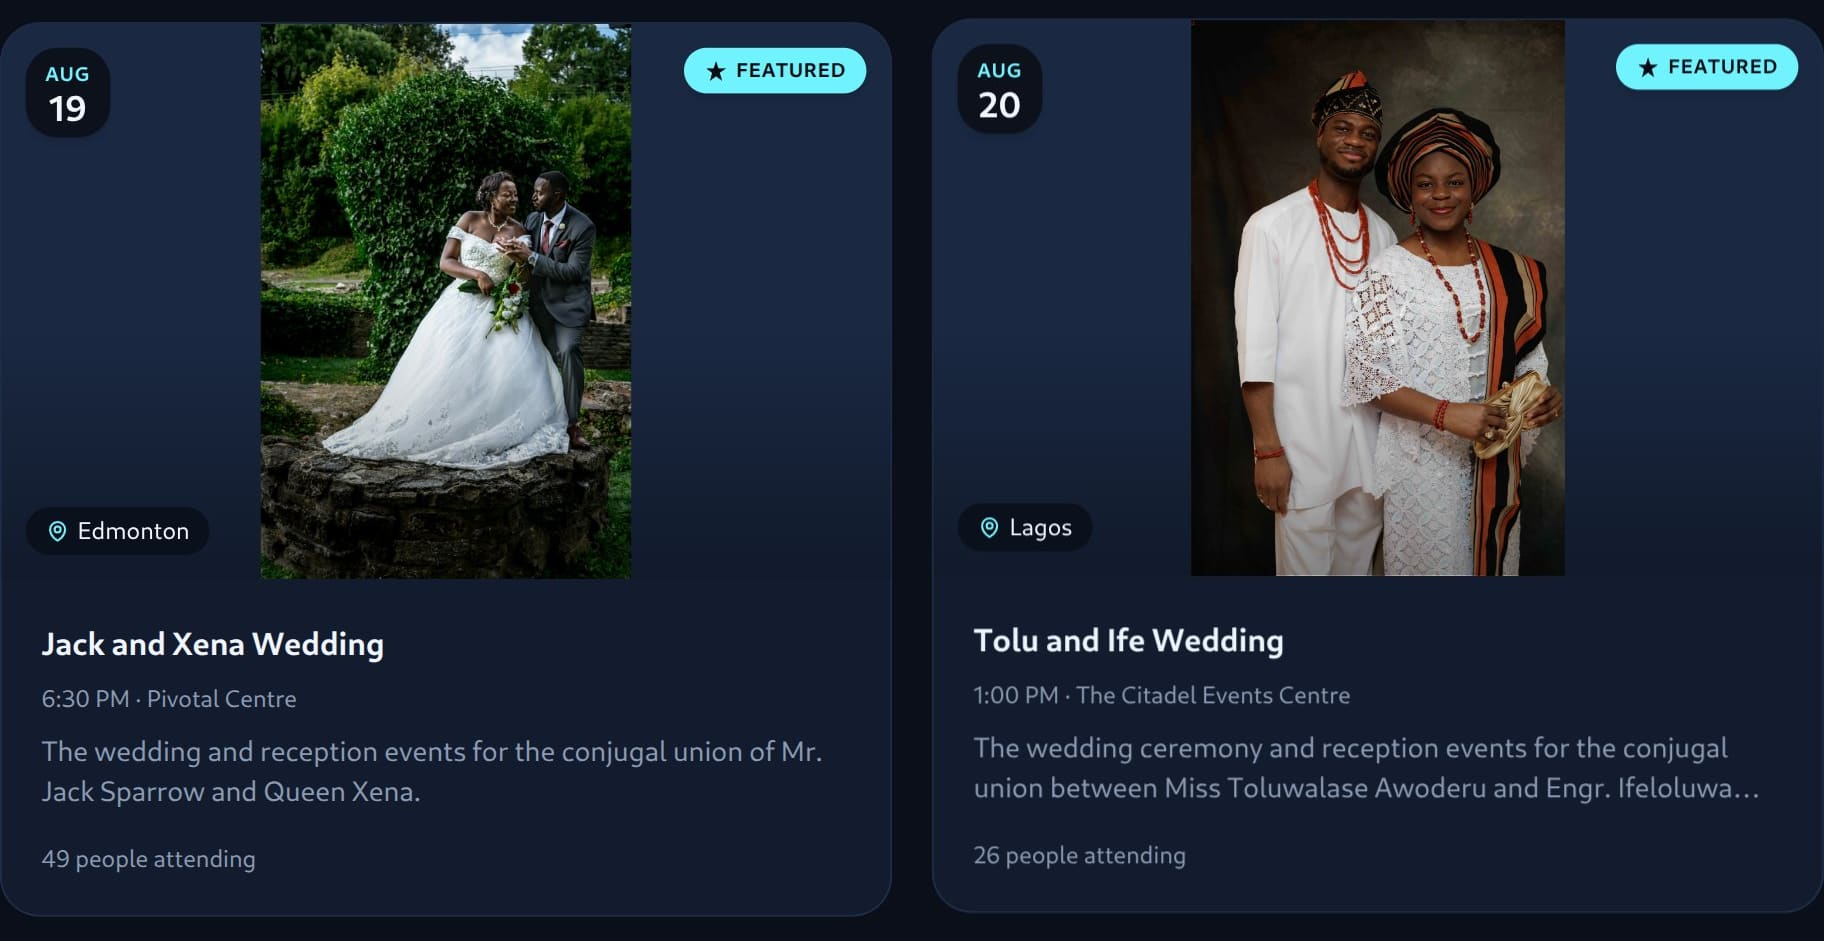
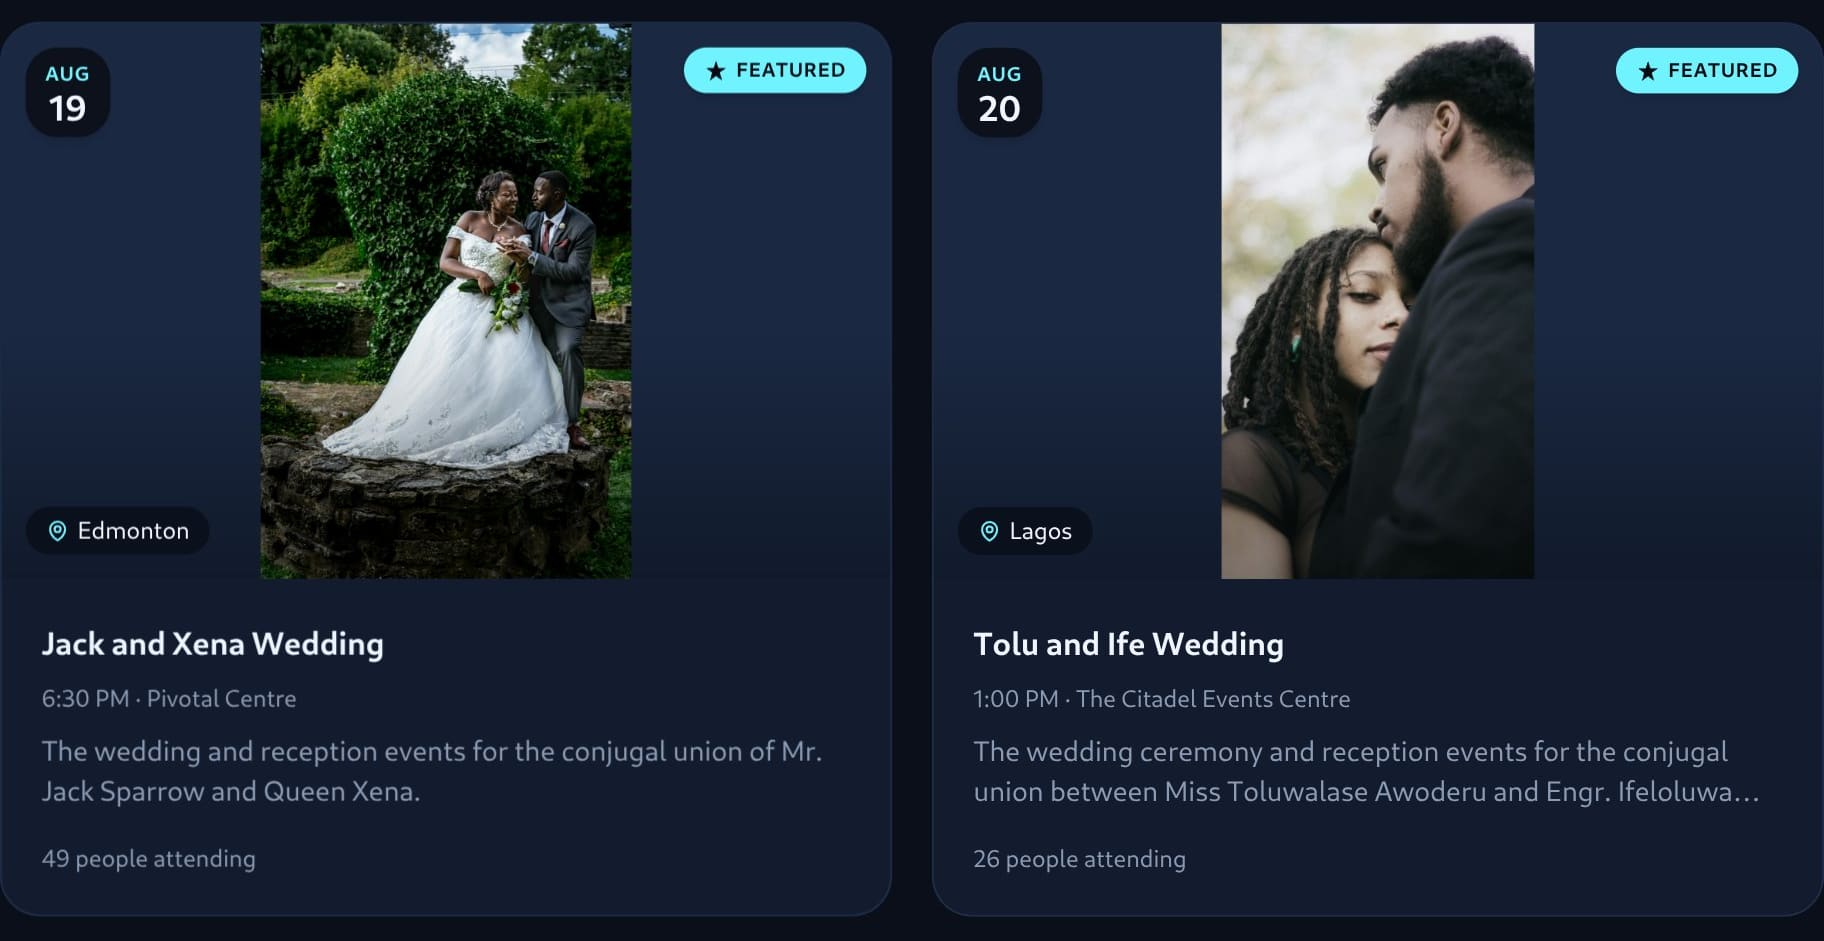
fix: use-case screenshot corrections from visual sweep
- Recapture the weddings-row RSVP section at desktop width: the phone
  capture rendered oversized in the wide slot and clipped the mobile
  hamburger button.
- Replace the Tolu & Ife card photo in the discovery capture with a
  bundled sample couple photo — the original is a real event whose
  couple hasn't consented to landing-page use. Swapped at capture time
  only; the seeded dev data is untouched.

diff --git a/src/components/landing/sections/UseCaseGrid.tsx b/src/components/landing/sections/UseCaseGrid.tsx
@@ -36,8 +36,8 @@ const useCases: UseCase[] = [
     image: {
       src: "/landing/use-cases/rsvp.jpg",
       alt: "RSVP section of a live wedding page asking guests for their invitation code",
-      width: 860,
-      height: 677,
+      width: 1690,
+      height: 675,
       variant: "wide",
     },
   },
